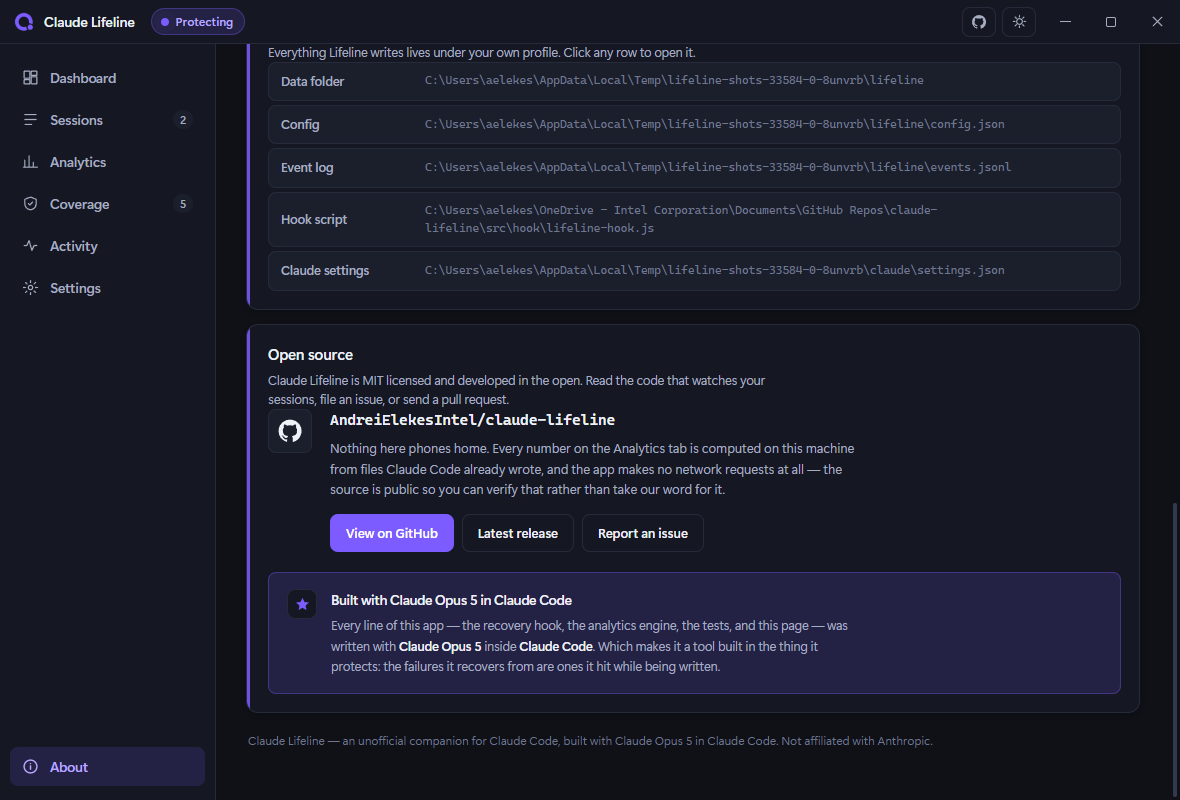
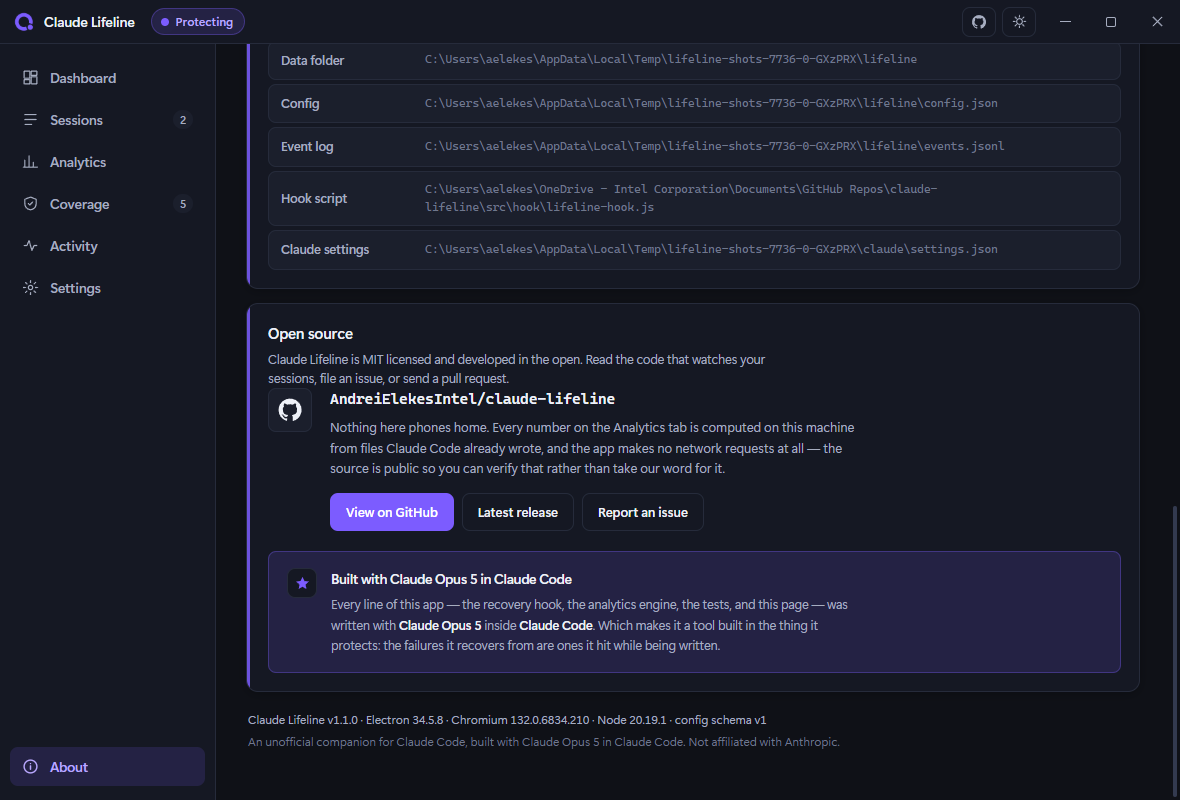
Show the running version on the About page
The version leads the chip row, and the foot carries the full build string —
app, Electron, Chromium, Node, config schema. That line overrides the app's
global user-select: none, because its purpose is being pasted into an issue,
where "which version" and "which Electron" are the first two questions.

From app.getVersion() rather than a require of package.json: in a packaged
build those are different files, and a stale bundled copy would have the page
confidently name a version the user is not running.

Changed region(s): [[0.2136, 0.4062, 0.9763, 0.9375], [0.2136, 0.0625, 0.8542, 0.3438]]

diff --git a/src/renderer/app.js b/src/renderer/app.js
@@ -1831,11 +1831,20 @@ const ABOUT_RETRY = [
 ];
 
 function renderAbout() {
+  // Absent only if an older main process is somehow paired with this renderer —
+  // which the dev workflow makes possible. Better a chip that reads "unknown"
+  // than a crash on the tab that exists to answer "what am I running".
+  const versions = state.versions || {};
+  const appVersion = versions.app ? `v${versions.app}` : 'version unknown';
+
   const chips = $('#aboutChips');
   chips.replaceChildren();
   for (const [text, tone] of [
+    // First chip, and accented: the version is the single most-asked question an
+    // about page answers, so it leads rather than sitting among the build trivia.
+    [appVersion, 'accent'],
     ['Windows 11', ''],
-    ['Electron', ''],
+    [versions.electron ? `Electron ${versions.electron}` : 'Electron', ''],
     ['Zero runtime dependencies', 'ok'],
     ['MIT licensed', 'info'],
   ]) {
@@ -1914,11 +1923,24 @@ function renderAbout() {
 
   const foot = $('#aboutFoot');
   foot.replaceChildren();
+  // The full build string, in the place a build string conventionally goes. The
+  // chip above answers "which version" at a glance; this answers the follow-up
+  // that an issue report needs, so it is selectable text rather than a chip.
+  const build = [
+    `Claude Lifeline ${appVersion}`,
+    versions.electron ? `Electron ${versions.electron}` : null,
+    versions.chrome ? `Chromium ${versions.chrome}` : null,
+    versions.node ? `Node ${versions.node}` : null,
+    versions.schema != null ? `config schema v${versions.schema}` : null,
+  ]
+    .filter(Boolean)
+    .join(' · ');
+  foot.appendChild(el('span', 'about-build', build));
   foot.appendChild(
     el(
       'span',
       null,
-      'Claude Lifeline — an unofficial companion for Claude Code, built with Claude Opus 5 in Claude Code. Not affiliated with Anthropic.'
+      'An unofficial companion for Claude Code, built with Claude Opus 5 in Claude Code. Not affiliated with Anthropic.'
     )
   );
 }

diff --git a/test/e2e/app.spec.js b/test/e2e/app.spec.js
@@ -1064,6 +1064,35 @@ test('the about page reports live figures, not static copy', async () => {
   await expect(page.locator('#aboutFoot')).toContainText('Not affiliated with Anthropic');
 });
 
+test('the about page names the version it is actually running', async () => {
+  const sandbox = fx.makeSandbox('aboutversion');
+  ctx = await fx.launch(sandbox);
+  const { page } = ctx;
+  await page.click('.nav-item[data-tab="about"]');
+
+  // Compared against package.json rather than hardcoded, so a version bump does
+  // not break this test — what is being asserted is that the page reports the
+  // real version, not that the version is any particular string.
+  const pkg = require('../../package.json');
+  await expect(page.locator('#aboutChips')).toContainText(`v${pkg.version}`);
+
+  // And the build line carries the runtimes, which is what an issue report needs.
+  const build = page.locator('.about-build');
+  await expect(build).toContainText(`Claude Lifeline v${pkg.version}`);
+  await expect(build).toContainText('Electron ');
+  await expect(build).toContainText('Chromium ');
+  await expect(build).toContainText('Node ');
+
+  // Nothing may read as a literal 'undefined' — the failure mode of building this
+  // string from a state field that main forgot to send.
+  await expect(build).not.toContainText('undefined');
+  await expect(page.locator('#aboutChips')).not.toContainText('unknown');
+
+  // The version has to be selectable, because its whole purpose is being copied
+  // into a bug report — and the app sets `user-select: none` globally.
+  expect(await build.evaluate((n) => getComputedStyle(n).userSelect)).toBe('text');
+});
+
 test('the about recovery count agrees with the timeline, including recoveries older than the ledger keeps', async () => {
   const sandbox = fx.makeSandbox('aboutcount');
   const hour = 3_600_000;

diff --git a/src/main/main.js b/src/main/main.js
@@ -351,6 +351,24 @@ function serialisableState(state) {
         },
       };
     }),
+    /**
+     * What version of everything is actually running.
+     *
+     * From `app.getVersion()` rather than a `require` of package.json, because in
+     * a packaged build those are two different files: electron-builder writes the
+     * version into the app metadata, and a stale bundled package.json would have
+     * the About page confidently name a version the user is not running. The
+     * runtime versions come along because "which Electron" is the first question
+     * asked on any rendering bug report, and `schema` because a config written by
+     * a newer Lifeline is a real situation the app already warns about.
+     */
+    versions: {
+      app: app.getVersion(),
+      electron: process.versions.electron,
+      chrome: process.versions.chrome,
+      node: process.versions.node,
+      schema: SCHEMA_VERSION,
+    },
     /** Model ids with built-in rates, so the UI can offer them for overriding. */
     pricingModels: Object.keys(RATES),
     /**

diff --git a/src/renderer/styles.css b/src/renderer/styles.css
@@ -1079,7 +1079,13 @@ button.path-row:hover .path-open, button.path-row:focus-visible .path-open { opa
   .built-with { flex-direction: column; gap: 10px; }
 }
 
-.about-foot { padding: 4px 2px 10px; font-size: 12px; color: var(--text-faint); }
+/* A column, because it holds two independent lines — the build string and the
+   affiliation note. Inline spans would run them into one sentence that reads as
+   though Node 22 were the thing not affiliated with Anthropic. */
+.about-foot { display: flex; flex-direction: column; gap: 3px; padding: 4px 2px 10px; font-size: 12px; color: var(--text-faint); }
+/* Tabular figures so the version numbers line up, and selectable-looking:
+   this is the line people copy into an issue report. */
+.about-build { font-variant-numeric: tabular-nums; color: var(--text-dim); user-select: text; }
 
 /* ---------- Toasts ---------- */
 .toast-host { position: fixed; right: 18px; bottom: 18px; display: flex; flex-direction: column; gap: 8px; z-index: 100; }

diff --git a/docs/wiki/The-App.md b/docs/wiki/The-App.md
@@ -66,6 +66,8 @@ Scroll down and it tells you where every byte it writes lives, so you can go and
 
 ![About, paths](https://raw.githubusercontent.com/AndreiElekesIntel/claude-lifeline/main/docs/screenshots/about-detail-dark.png)
 
+The version you are running is the first chip at the top, and the foot of the page carries the whole build string — app, Electron, Chromium, Node, and the config schema version. That line is selectable so it can be pasted straight into an issue, which is the only reason it exists: "which version" and "which Electron" are the first two questions any rendering bug needs answered.
+
 ## Light theme
 
 Follows Windows by default, or pick one.
